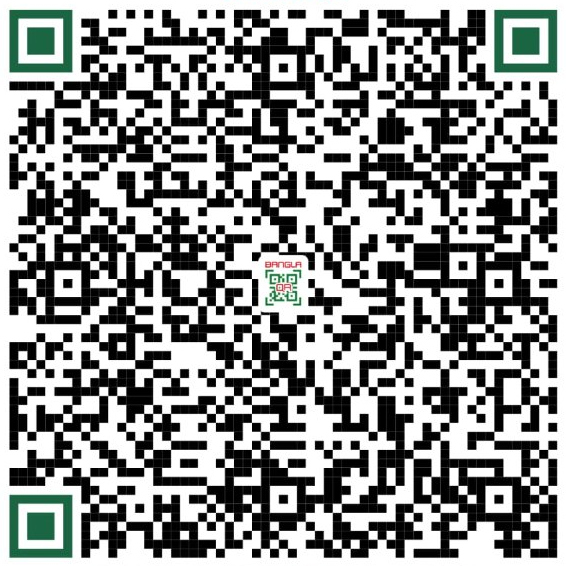
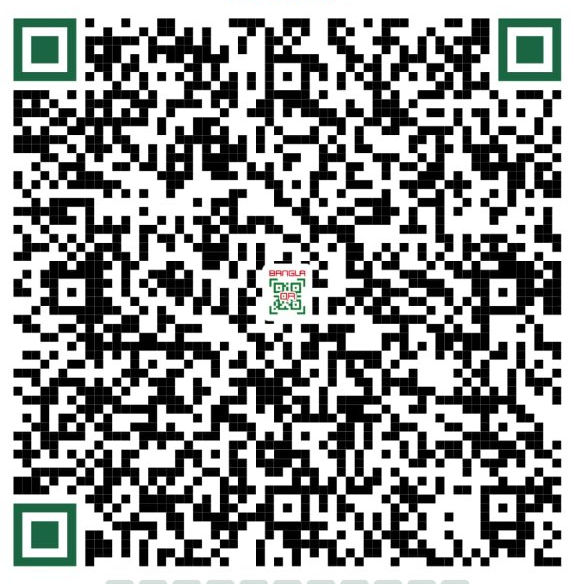
feat: add CellFin and Islami Bank Bangla QR gateways alongside bKash

diff --git a/js/receipt.js b/js/receipt.js
@@ -16,23 +16,40 @@ const PAYMENT_GATEWAYS = {
   cellfin: {
     id: 'cellfin',
     name: 'CellFin (ইসলামী ব্যাংক)',
-    badgeTitle: 'CellFin বাংলা QR (ইসলামী ব্যাংক)',
+    badgeTitle: 'CellFin বাংলা QR (মোবাইল একাউন্ট)',
     label: 'সেলফিন / মোবাইল নম্বর:',
     shortName: 'CellFin',
     number: '01533958357',
     accName: 'ABDULLAH ZUBAYER TALUKDER',
     defaultQr: 'assets/cellfin-qr-matrix.png',
     themeColor: '#047857',
-    type: 'সেন্ড মানি / ফান্ড ট্রান্সফার',
+    type: 'সেন্ড মানি (Send Money)',
     sublabel: '01533958357 (CellFin)'
+  },
+  bank: {
+    id: 'bank',
+    name: 'ইসলামী ব্যাংক (Bank Transfer)',
+    badgeTitle: 'ইসলামী ব্যাংক বাংলা QR (Bank A/C)',
+    label: 'ব্যাংক হিসাব নম্বর (A/C No):',
+    shortName: 'ব্যাংক একাউন্ট',
+    number: '20507776702350919',
+    accName: 'ABDULLAH ZUBAYER TALUKDER',
+    bankName: 'ইসলামী ব্যাংক বাংলাদেশ পিএলসি',
+    defaultQr: 'assets/bank-qr-matrix.png',
+    themeColor: '#0284c7',
+    type: 'ব্যাংক একাউন্ট ট্রান্সফার',
+    sublabel: '20507776702350919 (A/C No)'
   }
 };
 
 window.activeSlipGateway = 'bkash';
 
 function getBillPaymentConfig(b) {
-  const gwKey = (b && b.paymentGateway === 'cellfin') ? 'cellfin' : 'bkash';
-  const gw = PAYMENT_GATEWAYS[gwKey];
+  let gwKey = 'bkash';
+  if (b && (b.paymentGateway === 'cellfin' || b.paymentGateway === 'bank')) {
+    gwKey = b.paymentGateway;
+  }
+  const gw = PAYMENT_GATEWAYS[gwKey] || PAYMENT_GATEWAYS.bkash;
   const qrSrc = (b && b.customQr) ? b.customQr : gw.defaultQr;
   const isCustom = Boolean(b && b.customQr);
   return { gw, qrSrc, isCustom, gwKey };
@@ -80,11 +97,12 @@ function shareBillWhatsApp(room, bill, prop) {
 
   let payMsg = '';
   if (payableAmt > 0) {
+    const bankLine = gw.bankName ? `• ব্যাংক এর নাম: *${gw.bankName}*\n` : '';
     payMsg = `--------------------------------
 📲 *${gw.shortName} পেমেন্ট (${gw.type}):*
 • ${gw.label} *${gw.number}*
 • হিসাবধারীর নাম: *${gw.accName}*
-• প্রদেয় টাকার পরিমাণ: *৳${payableAmt.toLocaleString('en-IN')}*
+${bankLine}• প্রদেয় টাকার পরিমাণ: *৳${payableAmt.toLocaleString('en-IN')}*
 • রেফারেন্স: *রুম ${room.number}*
 ${isCustom ? `(এই বিলের জন্য নির্দিষ্ট ৳${payableAmt.toLocaleString('en-IN')} টাকার ডায়নামিক QR কোড স্লিপে যুক্ত আছে, স্ক্যান করলেই টাকা সরাসরি বসে যাবে)\n` : `(বিকাশ, সেলফিন বা যেকোনো ব্যাংকের বাংলা QR স্ক্যান করেও পেমেন্ট করতে পারবেন)\n`}--------------------------------\n`;
   }
@@ -254,7 +272,10 @@ window.openReceiptModal = function(rid) {
   if (el('receipt-qr-acc-lbl')) el('receipt-qr-acc-lbl').textContent = gw.label;
   if (el('receipt-qr-acc-num')) {
     el('receipt-qr-acc-num').textContent = gw.number;
-    el('receipt-qr-acc-num').className = 'qg-val ' + (gw.id === 'cellfin' ? 'text-green' : 'text-pink');
+    let colorCls = 'text-pink';
+    if (gw.id === 'cellfin') colorCls = 'text-green';
+    else if (gw.id === 'bank') colorCls = 'text-sky';
+    el('receipt-qr-acc-num').className = 'qg-val ' + colorCls;
   }
   if (el('receipt-qr-payable-amt')) el('receipt-qr-payable-amt').textContent = fmt(payableAmt > 0 ? payableAmt : b.total);
   if (el('receipt-qr-ref')) el('receipt-qr-ref').textContent = `রুম নং: ${room.number}`;
@@ -300,6 +321,7 @@ function renderPaymentSlipUI(room, b, p) {
   // Switch buttons active state
   if (el('ps-gw-btn-bkash')) el('ps-gw-btn-bkash').className = 'ps-gw-btn' + (gwKey === 'bkash' ? ' active' : '');
   if (el('ps-gw-btn-cellfin')) el('ps-gw-btn-cellfin').className = 'ps-gw-btn' + (gwKey === 'cellfin' ? ' active' : '');
+  if (el('ps-gw-btn-bank')) el('ps-gw-btn-bank').className = 'ps-gw-btn' + (gwKey === 'bank' ? ' active' : '');
 
   // QR Image and Header
   if (el('ps-qr-image')) el('ps-qr-image').src = qrSrc;
@@ -320,15 +342,35 @@ function renderPaymentSlipUI(room, b, p) {
 
   // Gateway Info Box
   if (el('ps-gw-pill')) {
-    el('ps-gw-pill').className = 'ps-i-val ' + (gwKey === 'cellfin' ? 'ps-cellfin-pill' : 'ps-bkash-pill');
-    el('ps-gw-pill').innerHTML = `<i class="fa-solid ${gwKey === 'cellfin' ? 'fa-building-columns' : 'fa-mobile-screen'}"></i> ${gw.badgeTitle}`;
+    let pillCls = 'ps-bkash-pill';
+    let iconCls = 'fa-mobile-screen';
+    if (gwKey === 'cellfin') {
+      pillCls = 'ps-cellfin-pill';
+      iconCls = 'fa-building-columns';
+    } else if (gwKey === 'bank') {
+      pillCls = 'ps-bank-pill';
+      iconCls = 'fa-landmark';
+    }
+    el('ps-gw-pill').className = 'ps-i-val ' + pillCls;
+    el('ps-gw-pill').innerHTML = `<i class="fa-solid ${iconCls}"></i> ${gw.badgeTitle}`;
   }
   if (el('ps-num-label')) el('ps-num-label').textContent = gw.label;
   if (el('ps-acc-number')) {
     el('ps-acc-number').textContent = gw.number;
-    el('ps-acc-number').className = 'ps-i-val ' + (gwKey === 'cellfin' ? 'ps-cellfin-num' : 'ps-bkash-num');
+    let numCls = 'ps-bkash-num';
+    if (gwKey === 'cellfin') numCls = 'ps-cellfin-num';
+    else if (gwKey === 'bank') numCls = 'ps-bank-num';
+    el('ps-acc-number').className = 'ps-i-val ' + numCls;
   }
   if (el('ps-acc-name')) el('ps-acc-name').textContent = gw.accName;
+  if (el('ps-bank-name-row')) {
+    if (gw.bankName) {
+      el('ps-bank-name-row').style.display = 'flex';
+      if (el('ps-bank-name')) el('ps-bank-name').textContent = gw.bankName;
+    } else {
+      el('ps-bank-name-row').style.display = 'none';
+    }
+  }
   if (el('ps-send-type')) {
     el('ps-send-type').textContent = gw.type;
     el('ps-send-type').style.color = gw.themeColor;

diff --git a/index.html b/index.html
@@ -471,6 +471,10 @@
                   <input type="radio" name="bill-payment-gateway" value="cellfin">
                   <span><i class="fa-solid fa-building-columns"></i> CellFin</span>
                 </label>
+                <label class="gateway-radio-pill bank-pill">
+                  <input type="radio" name="bill-payment-gateway" value="bank">
+                  <span><i class="fa-solid fa-landmark"></i> ব্যাংক একাউন্ট</span>
+                </label>
               </div>
             </div>
 
@@ -729,6 +733,9 @@
               <button type="button" class="ps-gw-btn" id="ps-gw-btn-cellfin" onclick="switchActiveSlipGateway('cellfin')">
                 <i class="fa-solid fa-building-columns"></i> CellFin
               </button>
+              <button type="button" class="ps-gw-btn" id="ps-gw-btn-bank" onclick="switchActiveSlipGateway('bank')">
+                <i class="fa-solid fa-landmark"></i> ব্যাংক একাউন্ট
+              </button>
             </div>
             <div class="ps-custom-qr-tools">
               <input type="file" id="ps-custom-qr-input" accept="image/*" style="display:none">
@@ -764,6 +771,10 @@
               <div class="ps-info-row">
                 <span class="ps-i-lbl">হিসাবধারীর নাম:</span>
                 <span class="ps-i-val" id="ps-acc-name">ABDULLAH ZUBAYER TALUKDER</span>
+              </div>
+              <div class="ps-info-row" id="ps-bank-name-row" style="display:none">
+                <span class="ps-i-lbl">ব্যাংক এর নাম:</span>
+                <span class="ps-i-val" id="ps-bank-name">ইসলামী ব্যাংক বাংলাদেশ পিএলসি</span>
               </div>
               <div class="ps-info-row">
                 <span class="ps-i-lbl">পেমেন্ট রেফারেন্স:</span>

diff --git a/css/receipt.css b/css/receipt.css
@@ -561,6 +561,11 @@
   background: #ecfdf5;
   color: #047857;
 }
+.gateway-radio-pill.bank-pill:has(input:checked) {
+  border-color: #0284c7;
+  background: #f0f9ff;
+  color: #0369a1;
+}
 
 /* ── Payment Slip Toolbar & Switcher ────────────────────────── */
 .ps-toolbar-row {
@@ -606,6 +611,9 @@
 #ps-gw-btn-cellfin.active {
   color: #047857;
 }
+#ps-gw-btn-bank.active {
+  color: #0284c7;
+}
 .ps-custom-qr-tools {
   display: flex;
   align-items: center;
@@ -638,6 +646,22 @@
   color: #047857;
   letter-spacing: 0.03em;
 }
+.ps-bank-pill {
+  background: #f0f9ff;
+  color: #0369a1 !important;
+  padding: 0.15rem 0.5rem;
+  border-radius: 999px;
+  font-size: 0.74rem;
+}
+.ps-bank-num {
+  font-size: 0.95rem;
+  color: #0284c7;
+  letter-spacing: 0.03em;
+  font-weight: 700;
+}
 .text-green {
   color: #047857 !important;
+}
+.text-sky {
+  color: #0284c7 !important;
 }

diff --git a/css/themes.css b/css/themes.css
@@ -506,6 +506,12 @@
   color: #6ee7b7;
 }
 
+[data-theme="bluish"] .gateway-radio-pill.bank-pill:has(input:checked) {
+  border-color: #38bdf8;
+  background: rgba(14, 165, 233, 0.15);
+  color: #7dd3fc;
+}
+
 [data-theme="bluish"] .ps-gateway-toggle {
   background: #f1f5f9 !important;
   border: 1px solid #cbd5e1 !important;
@@ -526,6 +532,19 @@
 
 [data-theme="bluish"] #ps-gw-btn-cellfin.active {
   color: #047857 !important;
+}
+
+[data-theme="bluish"] #ps-gw-btn-bank.active {
+  color: #0284c7 !important;
+}
+
+[data-theme="bluish"] .ps-bank-pill {
+  background: #f0f9ff !important;
+  color: #0369a1 !important;
+}
+
+[data-theme="bluish"] .ps-bank-num {
+  color: #0284c7 !important;
 }
 
 [data-theme="bluish"] .ps-qr-status-pill {
